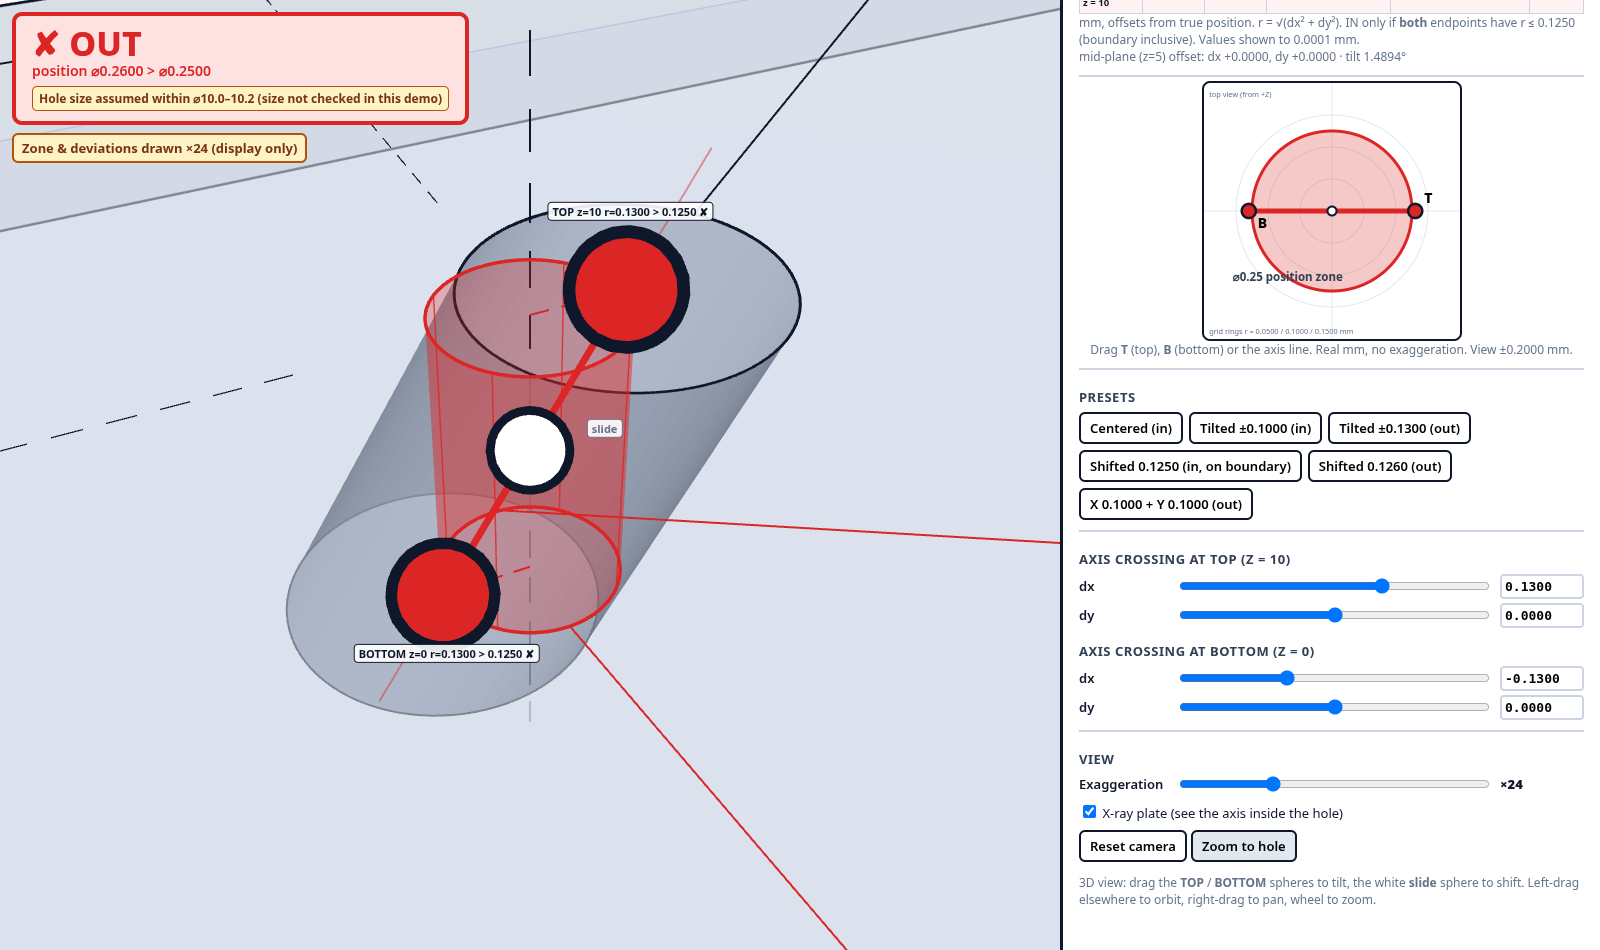
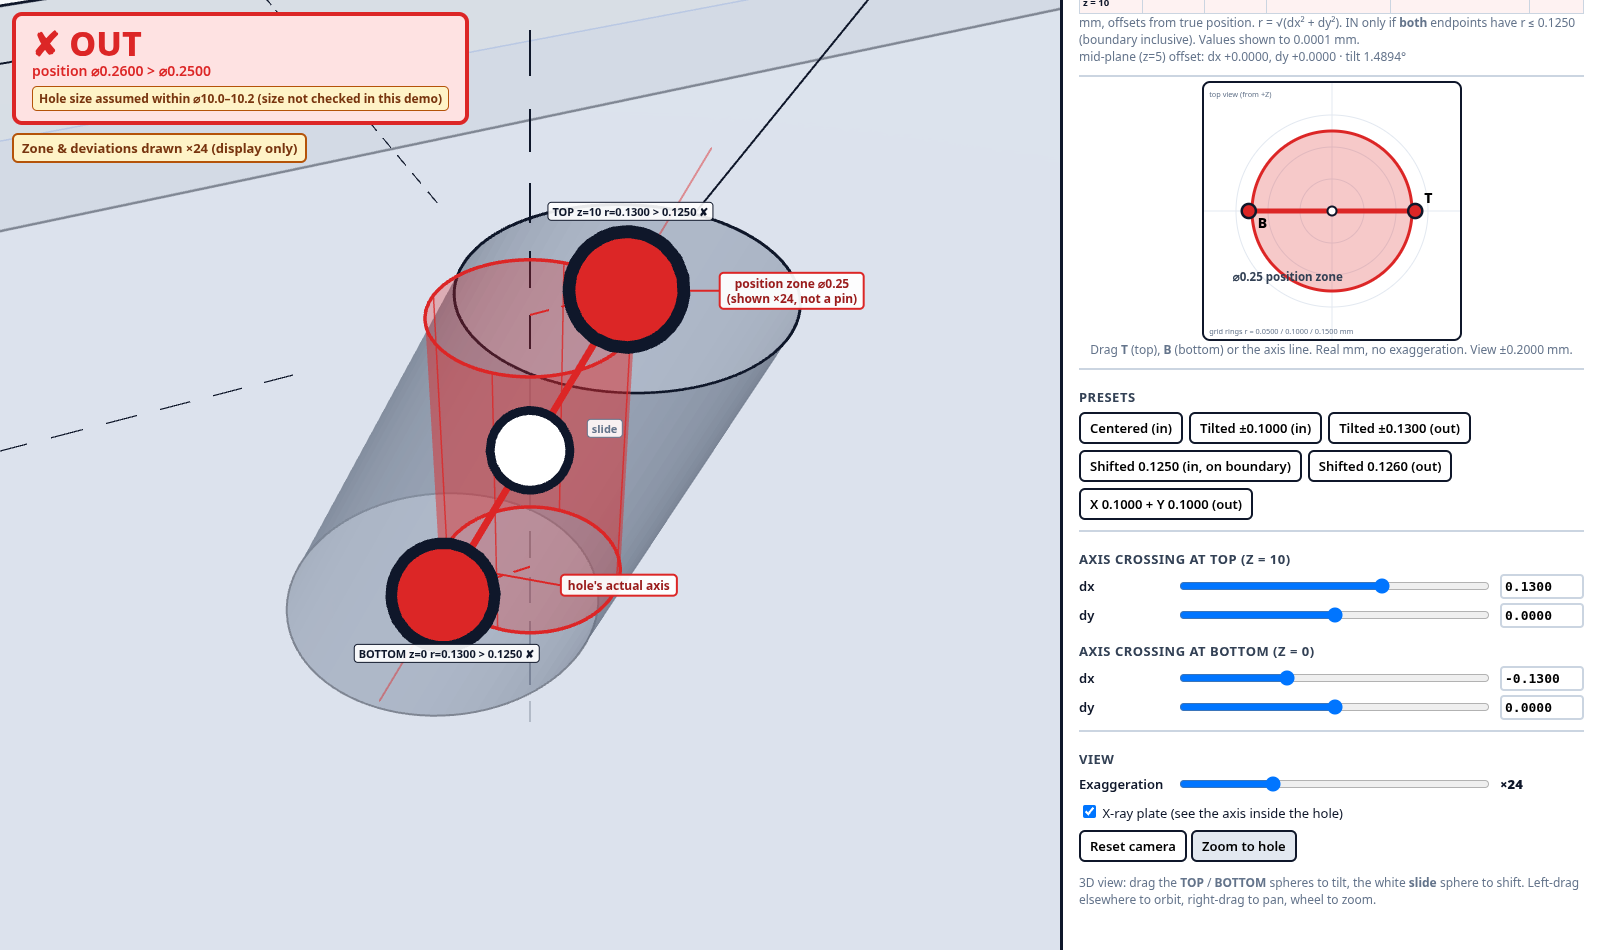
Callout labels keep screen-space leaders when zoomed (blend with overview layout, clamp in view/clear of badges); phones start in a framed hole close-up; mobile-check: phone start camera, reset before pinch-on-handle

Changed region(s): [[0.4375, 0.2747, 0.5625, 0.3358], [0.3438, 0.58, 0.4375, 0.6411]]

diff --git a/src/viewer/scene.js b/src/viewer/scene.js
@@ -16,6 +16,31 @@ const TP = SPEC.truePosition;
 const HOLE_R = SPEC.hole.nominal / 2;
 
 export const HOLE_CAMERA = Object.freeze({ position: [TP.x - 14, TP.y - 30, 32], target: [TP.x, TP.y, 4] });
+
+// Phone-sized screens: same media logic as the small-3D-view rules in styles.css
+// (portrait phones <= 700 px wide, landscape phones <= 500 px tall).
+export const PHONE_QUERY = '(max-width: 700px), (max-height: 500px)';
+export const isPhone = () => window.matchMedia(PHONE_QUERY).matches;
+
+// Phone close-up: same viewing direction as HOLE_CAMERA, pulled back by
+// `distance` and with the target shifted so the hole sits below the verdict
+// badge with room for the callout labels. Camera only.
+export const PHONE_HOLE_FRAMING = { distance: 1.25, shift: [11, 2, 3] };
+export function phoneHoleCamera(f = PHONE_HOLE_FRAMING) {
+  const target = HOLE_CAMERA.target.map((t, i) => t + f.shift[i]);
+  const position = target.map((t, i) => t + f.distance * (HOLE_CAMERA.position[i] - HOLE_CAMERA.target[i]));
+  return { position, target };
+}
+
+// Callout labels (zone, actual axis). Two layouts, blended by camera distance:
+//  - FAR (overview distance and beyond): fixed world positions (the layout
+//    verified at the overview).
+//  - NEAR (close-ups): a fixed number of SCREEN pixels from a 3D anchor next to
+//    the hole, so the leader shrinks with camera distance and the labels stay
+//    next to the hole at any zoom. [right, down] in CSS px.
+// Labels are also nudged back inside the canvas if they would leave it.
+export const CALLOUT_PX = { zone: [96, 0], axis: [100, 18] };
+export const CALLOUT_BLEND = { near: 60, far: 130 }; // camera-to-target distance
 export const DEFAULT_CAMERA = Object.freeze({ position: [-22, -88, 92], target: [47, 30, 0] });
 
 export function createViewer(container) {
@@ -52,7 +77,7 @@ export function createViewer(container) {
     controls.target.set(...view.target);
     controls.update();
   }
-  const zoomToHole = () => resetCamera(HOLE_CAMERA);
+  const zoomToHole = () => resetCamera(isPhone() ? phoneHoleCamera() : HOLE_CAMERA);
 
   function resize() {
     const w = container.clientWidth;
@@ -81,10 +106,79 @@ export function createViewer(container) {
     dynamic.add(buildAxis(vb, vt, result));
     dynamic.add(buildLeader(vt));
     handles.place(vb, vt, result);
+    layoutKey = ''; // force callout layout
+  }
+
+  // Place callout labels + leaders (see CALLOUT_PX / CALLOUT_BLEND).
+  const _a = new THREE.Vector3();
+  const _n = new THREE.Vector3();
+  const _f = new THREE.Vector3();
+  let layoutKey = '';
+  function layoutCallouts() {
+    camera.updateMatrixWorld();
+    const w = renderer.domElement.clientWidth;
+    const h = renderer.domElement.clientHeight;
+    const key = `${camera.matrixWorld.elements.join(',')}|${camera.projectionMatrix.elements[0]}|${w}x${h}`;
+    if (key === layoutKey || !w || !h) return;
+    layoutKey = key;
+    let unsized = false;
+    const dist = camera.position.distanceTo(controls.target);
+    const t = THREE.MathUtils.smoothstep(dist, CALLOUT_BLEND.near, CALLOUT_BLEND.far); // 0 near .. 1 far
+    // verdict badge rect in canvas px (labels are kept out from under it)
+    const cr = renderer.domElement.getBoundingClientRect();
+    const box = (id) => {
+      const el = document.getElementById(id);
+      if (!el || !el.offsetWidth) return null;
+      const b = el.getBoundingClientRect();
+      return { l: b.left - cr.left, r: b.right - cr.left, t: b.top - cr.top, b: b.bottom - cr.top };
+    };
+    const badge = box('status-badge'); // labels drop below it
+    const mag = box('mag-badge'); // labels lift above it
+    dynamic.traverse((o) => {
+      const c = o.userData.callout;
+      if (!c) return;
+      // anchor: blend of near/far anchors (world)
+      _a.lerpVectors(c.near.anchor, c.far.anchor, t);
+      // NEAR target: anchor projected + fixed px; FAR target: fixed world point projected
+      _n.copy(c.near.anchor).project(camera);
+      _n.x += (2 * c.near.px[0]) / w;
+      _n.y -= (2 * c.near.px[1]) / h;
+      _f.copy(c.far.at).project(camera);
+      _n.lerp(_f, t); // NDC blend
+      const cx = c.near.center[0] + t * (c.far.center[0] - c.near.center[0]);
+      const cy = c.near.center[1] + t * (c.far.center[1] - c.near.center[1]);
+      o.center.set(cx, cy);
+      // keep the label box inside the canvas (4 px margin)
+      const ew = o.element.offsetWidth;
+      const eh = o.element.offsetHeight;
+      if (!ew) unsized = true; // not in the DOM yet: lay out again next frame
+      let sx = ((_n.x + 1) / 2) * w;
+      let sy = ((1 - _n.y) / 2) * h;
+      const left = sx - cx * ew, top = sy - cy * eh;
+      sx += Math.max(0, 4 - left) - Math.max(0, left + ew - (w - 4));
+      sy += Math.max(0, 4 - top) - Math.max(0, top + eh - (h - 4));
+      if (badge) {
+        const l2 = sx - cx * ew, t2 = sy - cy * eh;
+        const under = l2 < badge.r && l2 + ew > badge.l && t2 < badge.b && t2 + eh > badge.t;
+        if (under && badge.b + 4 + eh <= h - 4) sy += badge.b + 4 - t2; // drop below the badge
+      }
+      if (mag) {
+        const l2 = sx - cx * ew, t2 = sy - cy * eh;
+        const under = l2 < mag.r && l2 + ew > mag.l && t2 < mag.b && t2 + eh > mag.t;
+        if (under && mag.t - 4 - eh >= (badge ? badge.b + 4 : 4)) sy -= t2 + eh - (mag.t - 4); // lift above it
+      }
+      _n.x = (sx / w) * 2 - 1;
+      _n.y = 1 - (sy / h) * 2;
+      _n.unproject(camera);
+      o.position.copy(_n);
+      c.leader.geometry.setPositions([_a.x, _a.y, _a.z, _n.x, _n.y, _n.z]);
+    });
+    if (unsized) layoutKey = '';
   }
 
   function frame() {
     controls.update();
+    layoutCallouts();
     renderer.render(scene, camera);
     labelRenderer.render(scene, camera);
     requestAnimationFrame(frame);
@@ -272,16 +366,20 @@ function buildZone(R, inTol, M) {
     const y = TP.y + R * Math.sin(a);
     g.add(fatLine([[x, y, 0], [x, y, H]], { color, width: 1.5, onTop: true, opacity: 0.8 }));
   }
-  // Label so the cylinder is not mistaken for a gage pin. Sits to the left
-  // (in front of the zone, toward the default camera) on a leader, clear of the
-  // TOP/BOTTOM/slide handle labels and the basic dimensions.
-  const anchor = [TP.x, TP.y - R, 0];
-  const at = [TP.x + 2, TP.y - Math.max(R, 6) - 16, 0];
-  g.add(fatLine([anchor, at], { color, width: 2, onTop: true }));
+  // Label so the cylinder is not mistaken for a gage pin. Anchored on the zone's
+  // +X side at the top; placed CALLOUT_PX.zone screen px to the right
+  // (the "hole's actual axis" label sits lower right), clear of the TOP/BOTTOM
+  // handle labels at any zoom.
+  const anchor = new THREE.Vector3(TP.x + R, TP.y, H);
+  const leader = fatLine([anchor.toArray(), anchor.toArray()], { color, width: 2, onTop: true });
   const factor = M === 1 ? 'shown ×1, true size' : `shown ×${M}`;
-  const zl = label(`position zone ⌀${SPEC.position.tolerance}<br>(${factor}, not a pin)`, `zone-label ${inTol ? 'pass' : 'fail'}`, at);
-  zl.center.set(0.5, 0); // hangs below the leader end
-  g.add(zl);
+  const zl = label(`position zone ⌀${SPEC.position.tolerance}<br>(${factor}, not a pin)`, `zone-label ${inTol ? 'pass' : 'fail'}`, anchor.toArray());
+  zl.userData.callout = {
+    leader,
+    near: { anchor, px: CALLOUT_PX.zone, center: [0, 0.5] }, // left edge at leader end
+    far: { anchor: new THREE.Vector3(TP.x, TP.y - R, 0), at: new THREE.Vector3(TP.x + 2, TP.y - Math.max(R, 6) - 16, 0), center: [0.5, 0] }, // hangs below
+  };
+  g.add(leader, zl);
   return g;
 }
 
@@ -297,14 +395,19 @@ function buildAxis(vb, vt, result) {
   g.add(fatLine([[vb.x - dx * ext, vb.y - dy * ext, -ext], [vb.x, vb.y, 0]], { color, width: 2, onTop: true, opacity: 0.45 }));
   g.add(fatLine([[vt.x, vt.y, H], [vt.x + dx * ext, vt.y + dy * ext, H + ext]], { color, width: 2, onTop: true, opacity: 0.45 }));
   g.add(fatLine([[vb.x, vb.y, 0], [vt.x, vt.y, H]], { color, width: 7, onTop: true }));
-  // "hole's actual axis" label, leader from 30% up the axis to the lower right
-  const s = 0.3;
-  const p = [vb.x + s * (vt.x - vb.x), vb.y + s * (vt.y - vb.y), s * H];
-  const at = [vb.x + HOLE_R + 26, vb.y - 13, 0]; // follows the axis so spacing to the handle labels stays constant
-  g.add(fatLine([p, at], { color, width: 2, onTop: true }));
-  const al = label("hole's actual axis", `axis-name-label ${result.inTolerance ? 'pass' : 'fail'}`, at);
-  al.center.set(0, 0.5); // left edge at the leader end
-  g.add(al);
+  // "hole's actual axis" label: anchored 10% up the axis, placed CALLOUT_PX.axis
+  // screen px to the lower right (leader length scales with camera distance).
+  const s = 0.1;
+  const anchor = new THREE.Vector3(vb.x + s * (vt.x - vb.x), vb.y + s * (vt.y - vb.y), s * H);
+  const leader = fatLine([anchor.toArray(), anchor.toArray()], { color, width: 2, onTop: true });
+  const al = label("hole's actual axis", `axis-name-label ${result.inTolerance ? 'pass' : 'fail'}`, anchor.toArray());
+  const farAnchor = new THREE.Vector3(vb.x + 0.3 * (vt.x - vb.x), vb.y + 0.3 * (vt.y - vb.y), 0.3 * H);
+  al.userData.callout = {
+    leader,
+    near: { anchor, px: CALLOUT_PX.axis, center: [0, 0.5] }, // left edge at leader end
+    far: { anchor: farAnchor, at: new THREE.Vector3(vb.x + HOLE_R + 26, vb.y - 13, 0), center: [0, 0.5] },
+  };
+  g.add(leader, al);
   // radial offset r at each end (true position -> endpoint)
   for (const [v, z, end] of [[vb, 0, result.bottom], [vt, H, result.top]]) {
     g.add(fatLine([[TP.x, TP.y, z], [v.x, v.y, z]], { color: end.inside ? COLORS.in : COLORS.out, width: 2, dashed: true, dashSize: 0.6, gapSize: 0.4, onTop: true }));

diff --git a/src/main.js b/src/main.js
@@ -1,7 +1,7 @@
 // Wires state -> tolerance math -> 3D scene + UI readout.
 import { SPEC, VIEW, PRESETS } from './config.js';
 import { evaluatePosition } from './tolerance.js';
-import { createViewer } from './viewer/scene.js';
+import { createViewer, isPhone } from './viewer/scene.js';
 import { attachDrag } from './interaction.js';
 import { createUI } from './ui.js';
 
@@ -26,6 +26,9 @@ export function evaluate(s = state) {
 }
 
 const viewer = createViewer(document.getElementById('viewport'));
+// Phone-sized screens (PHONE_QUERY in scene.js) start in the hole close-up;
+// "Reset camera" still returns to the overview. Desktop/iPad start unchanged.
+if (isPhone()) viewer.zoomToHole();
 const ui = createUI(document.getElementById('panel'), {
   clampOffset,
   onChange: (patch) => setAxis(patch),

diff --git a/styles.css b/styles.css
@@ -150,4 +150,5 @@ button:hover { background: #e2e8f0; }
   .status-badge small { font-size: 11px; }
   .status-badge .size-note { flex-basis: 100%; font-size: 10px; padding: 1px 4px; margin: 2px 0 1px; }
   .mag-badge { font-size: 10px; padding: 2px 6px; }
+  .zone-label { white-space: normal; max-width: 112px; }
 }

diff --git a/README.md b/README.md
@@ -75,7 +75,12 @@ Chrome at `/usr/bin/google-chrome` (override with `CHROME=/path`).
   zone ⌀0.25 (shown ×N, not a pin)"*. N updates live with the slider, and at
   ×1 it reads "shown ×1, true size". This is there because testers mistook the
   zone for a gage pin. The bold line is labelled *"hole's actual axis"*. The
-  inset labels its circle *"⌀0.25 position zone"*.
+  inset labels its circle *"⌀0.25 position zone"*. When you zoom in, the
+  zone and axis labels stay a fixed number of screen pixels beside the hole,
+  so their leader lines get shorter in model terms. At overview distance they
+  use the original fixed layout, with a smooth blend in between. They are also
+  kept inside the 3D view and out from under the verdict and ×N badges.
+  Positioning labels is display-only and changes no math.
 - **X-ray plate** makes the plate translucent so you can see the axis inside
   the bore. **Zoom to hole** is a close-up camera preset.
 - Console hook for checking by hand: `gdt.setAxis({top:{dx:0.1,dy:0}, bottom:{dx:-0.1,dy:0}})`,
@@ -87,6 +92,10 @@ The layout adapts to the screen with CSS only:
 - **Portrait phones and tablets** (and windows narrower than 700 px) stack the
   3D view on top (48% of the height) with the scrolling panel below.
 - **Landscape phones** keep the panel beside the view at about 46% of the width.
+- **Phones start in a hole close-up.** The phone breakpoint is the same media
+  query as the mobile CSS. The camera is framed so the verdict badge doesn't
+  cover the hole. Desktop and iPad start in the overview, and **Reset camera**
+  always returns there.
 - **Small 3D views** get a compact verdict badge (the size note is still shown)
   and move the ×N badge to the bottom-left.
 - **Touch controls** are sized for fingers (≥ 40 px buttons, taller sliders).
